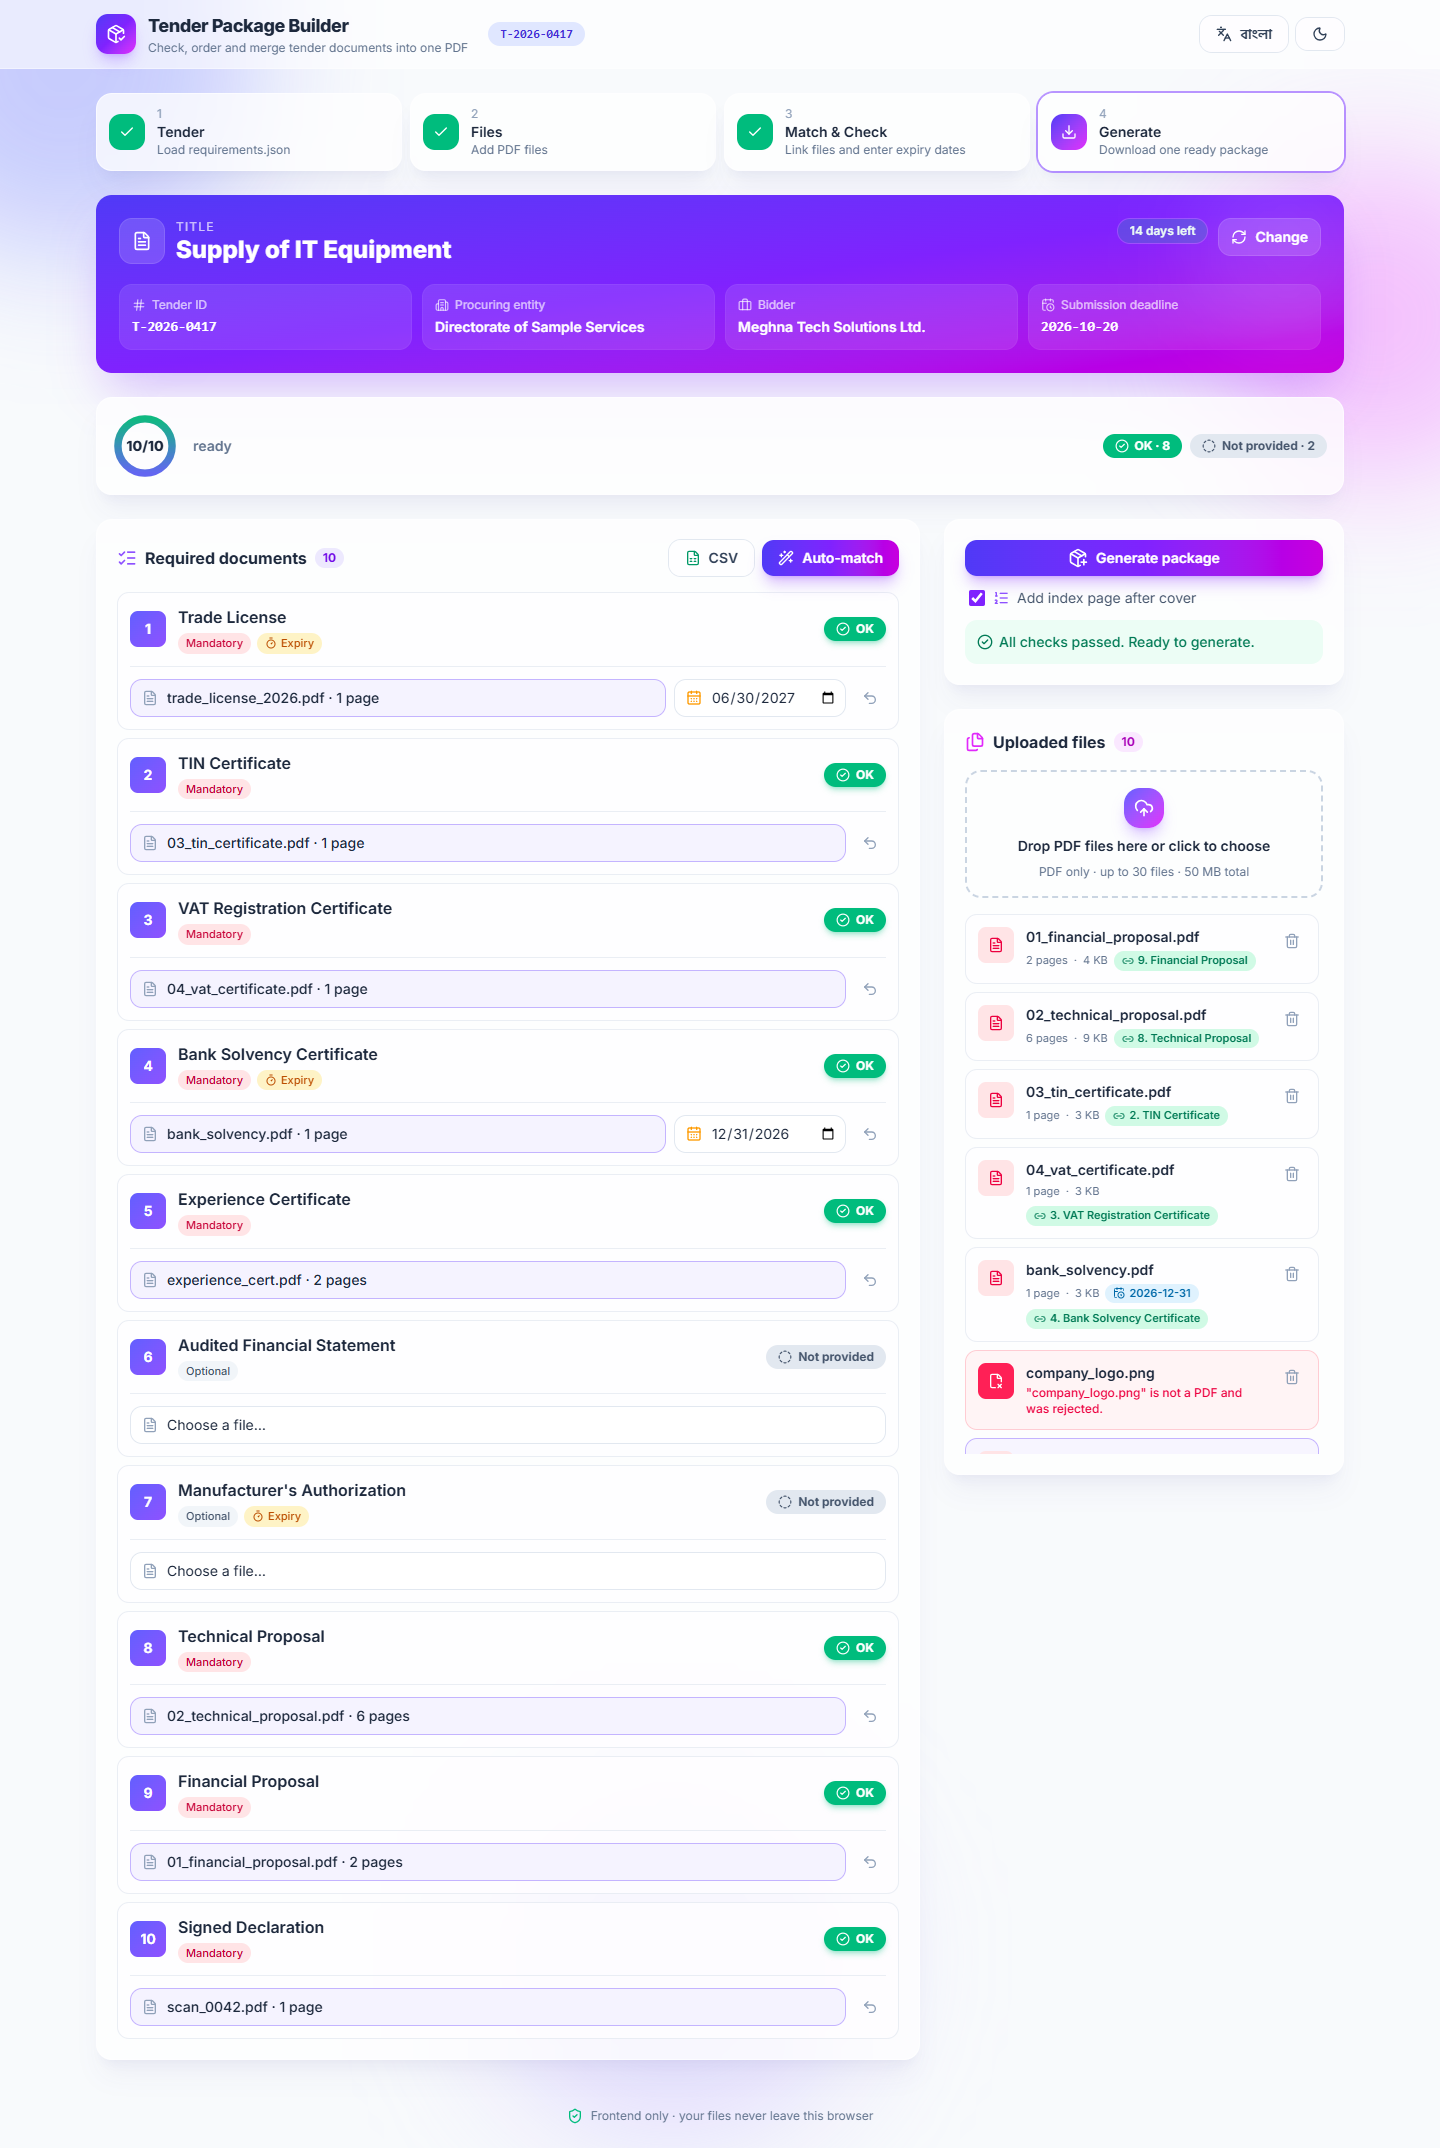
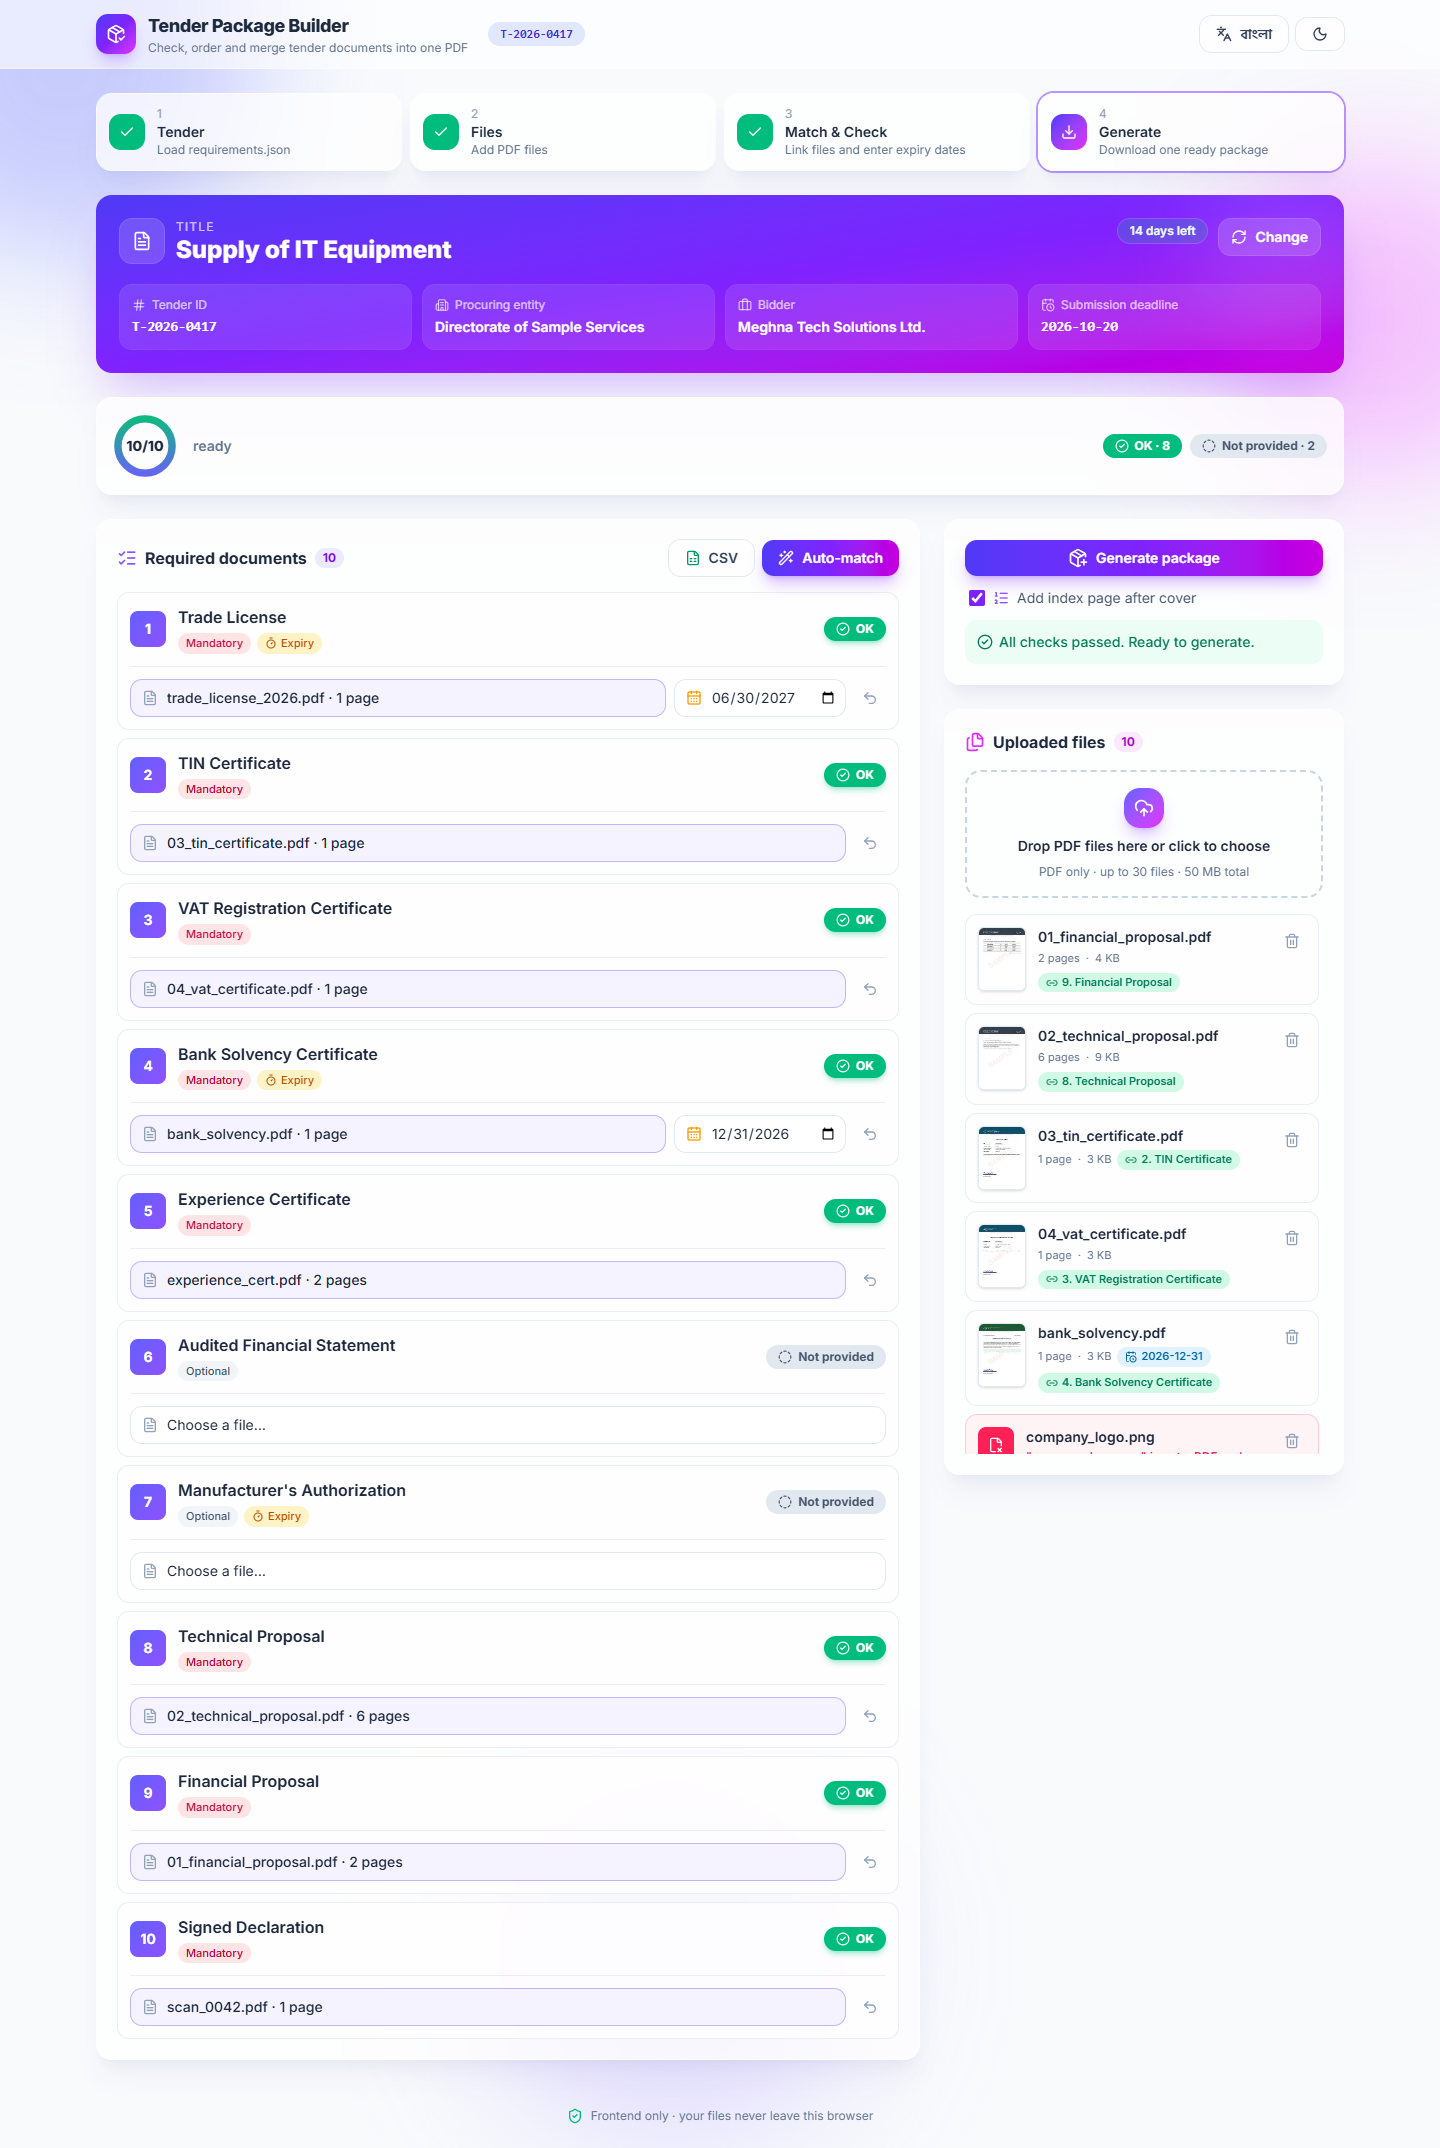
feat: page-1 thumbnails in the file list (rendered in background with timeout, hover to zoom), screenshots retaken
Prompt: "tmi add koro" (add the thumbnail feature: small preview of each PDF's first page in the file list)

Changed region(s): [[0.6562, 0.4055, 0.875, 0.6862]]

diff --git a/src/components/FilePanel.jsx b/src/components/FilePanel.jsx
@@ -46,13 +46,22 @@ export default function FilePanel({ files, dupOf, busy, onAdd, onRemove, usedBy 
                       : 'border-slate-200/70 bg-white/70 dark:border-slate-700/60 dark:bg-slate-800/50'
                 }`}
               >
-                <span
-                  className={`grid size-9 shrink-0 place-items-center rounded-lg ${
-                    bad ? 'bg-rose-500 text-white' : 'bg-rose-100 text-rose-600 dark:bg-rose-500/15 dark:text-rose-300'
-                  }`}
-                >
-                  {bad ? <FileX2 className="size-4" /> : <FileText className="size-4" />}
-                </span>
+                {f.thumb ? (
+                  <img
+                    src={f.thumb}
+                    alt={f.name}
+                    className="h-16 w-12 shrink-0 rounded-md border border-slate-200 bg-white object-cover object-top shadow-sm transition hover:scale-[2.5] hover:shadow-xl dark:border-slate-600"
+                    style={{ transformOrigin: 'left center' }}
+                  />
+                ) : (
+                  <span
+                    className={`grid size-9 shrink-0 place-items-center rounded-lg ${
+                      bad ? 'bg-rose-500 text-white' : 'bg-rose-100 text-rose-600 dark:bg-rose-500/15 dark:text-rose-300'
+                    }`}
+                  >
+                    {bad ? <FileX2 className="size-4" /> : <FileText className="size-4" />}
+                  </span>
+                )}
                 <div className="min-w-0 flex-1">
                   <p className="truncate font-semibold" title={f.name}>{f.name}</p>
                   {bad ? (

diff --git a/src/lib/files.js b/src/lib/files.js
@@ -34,6 +34,31 @@ async function readText(doc, maxPages = 2) {
   }
 }
 
+// Small JPEG of page 1 for the file list. Runs after upload, never blocks it.
+export async function makeThumb(bytes, width = 96) {
+  const task = pdfjs.getDocument({ data: bytes.slice() })
+  const timeout = new Promise((resolve) => setTimeout(() => resolve(null), 4000))
+  const result = await Promise.race([renderThumb(task, width), timeout])
+  task.destroy()
+  return result
+}
+
+async function renderThumb(task, width) {
+  try {
+    const doc = await task.promise
+    const page = await doc.getPage(1)
+    const base = page.getViewport({ scale: 1 })
+    const viewport = page.getViewport({ scale: width / base.width })
+    const canvas = document.createElement('canvas')
+    canvas.width = Math.ceil(viewport.width)
+    canvas.height = Math.ceil(viewport.height)
+    await page.render({ canvas, canvasContext: canvas.getContext('2d'), viewport }).promise
+    return canvas.toDataURL('image/jpeg', 0.75)
+  } catch {
+    return null
+  }
+}
+
 // Read one File → { id, name, size, bytes, pages, hash, error }
 // error is an i18n key: 'notPdf' | 'damaged' | 'passwordPdf'
 export async function readFile(file) {

diff --git a/src/App.jsx b/src/App.jsx
@@ -18,7 +18,7 @@ import { buildPackage, downloadBytes } from './lib/package.js'
 import { useToast } from './components/Toasts.jsx'
 import { useT } from './i18n.js'
 import { parseTender, todayISO } from './lib/tender.js'
-import { MAX_BYTES, MAX_FILES, findDuplicates, readFile } from './lib/files.js'
+import { MAX_BYTES, MAX_FILES, findDuplicates, makeThumb, readFile } from './lib/files.js'
 
 const SAMPLE = '/sample/'
 const BASE_DEMO = {
@@ -145,6 +145,11 @@ export default function App() {
     }
     setFiles((xs) => [...xs, ...added])
     setBusy(false)
+    // thumbnails in the background
+    for (const f of added) {
+      if (f.error) continue
+      makeThumb(f.bytes).then((thumb) => thumb && setFiles((xs) => xs.map((x) => (x.id === f.id ? { ...x, thumb } : x))))
+    }
     if (overCount) toast('error', t('tooMany'))
     if (overSize) toast('error', t('tooBig'))
     const ok = added.filter((f) => !f.error).length

diff --git a/README.md b/README.md
@@ -70,6 +70,7 @@ Handy URL parameters: `?lang=bn|en`, `?theme=dark|light`, `?sample=1` (auto-load
 - **Export checklist (CSV):** the CSV button downloads `<tender_id>_Checklist.csv` with Order, Document, Mandatory, File name, Pages, Expiry date and Status, in the chosen language. It has a UTF-8 BOM so Excel shows Bangla correctly.
 - **Wrong-file warning:** when a file's name or text clearly belongs to another document (for example `trade_license_2025.pdf` matched to TIN Certificate), a soft amber warning appears. The status still follows Section 5 exactly.
 - **Handle bad files safely:** damaged, truncated, empty, fake (`.pdf` that is not a PDF) and password-protected files each show a clear bilingual message instead of crashing. All of these were tested.
+- **Page thumbnails:** every PDF in the file list shows a small picture of its first page (made in the background, so it never slows the upload). Hover to zoom. This helps with scans whose name means nothing, such as `scan_0042.pdf`.
 - **Preview before download:** after generating, the package can be viewed in an in-app PDF viewer or downloaded directly.
 
 ## Known issues

diff --git a/Prompt.md b/Prompt.md
@@ -15,5 +15,6 @@
 | B3 | CSV export | "ami save/reopen chassi na. sudhu CSV checklist export feature ta add koro" |
 | UX | Preview + Download | "generate package option e click korlei duita option show kore ekta holo preview, arekta download ... ar generate package er onno kono icon use kora jabe na ?" |
 | B4 | Smart Read | "ami chassi 1 number ta korte" (Smart Read: read PDF text to detect document type and expiry date, used by auto-match and one-click date suggestions) |
+| B5 | Thumbnails | "tmi add koro" (page-1 thumbnails in the file list) |
 
 Most useful prompt (for README): _to be chosen at the end._
